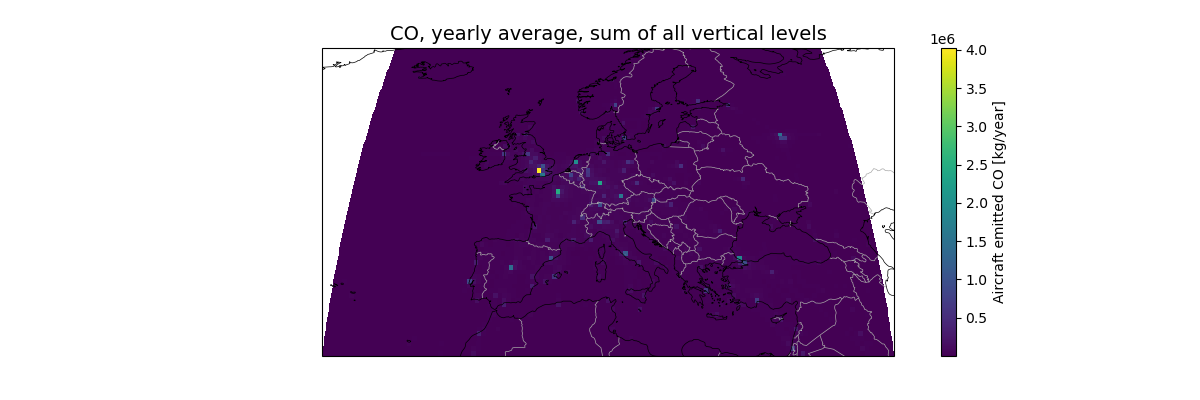
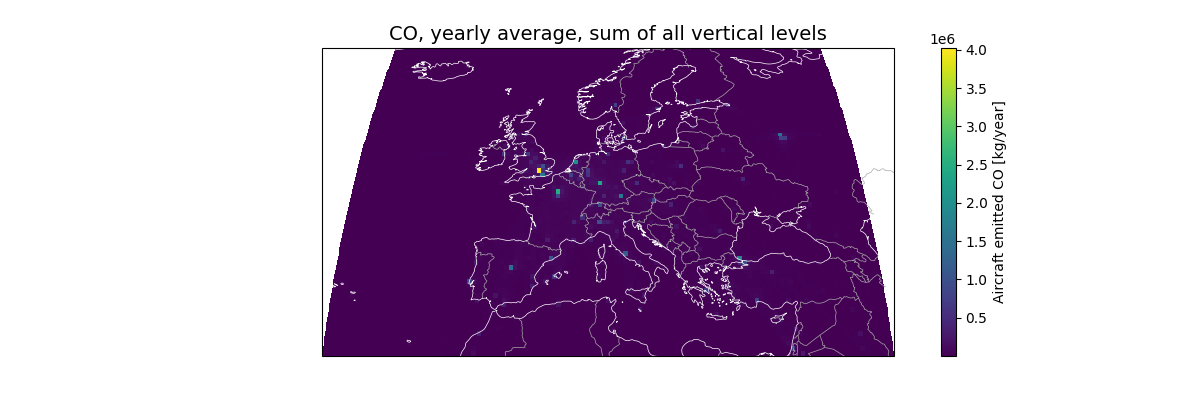
fixed file path for emission plotting

diff --git a/monthly_average/yearaveraged_emissions.py b/monthly_average/yearaveraged_emissions.py
@@ -8,7 +8,7 @@ import numpy as np
 
 
 # Open DataSet and print an overview of it
-ds_emission = xr.open_dataset(os.path.join(os.path.dirname(__file__), "..", "..", 'raw_data', 'emissions', 'AvEmMasses.nc4'))
+ds_emission = xr.open_dataset(os.path.join(os.path.dirname(__file__), "..", 'raw_data', 'emissions', 'AvEmMasses.nc4'))
 
 # Select a DataArray
 vars = ["FUELBURN", "NO2", "HC", "CO", 'nvPM']
@@ -22,12 +22,12 @@ for var in vars:
     
     ax = plt.axes(projection=ccrs.EqualEarth(central_longitude=10))
     ax.add_feature(cfeature.BORDERS.with_scale('50m'), linewidth=0.5, edgecolor='darkgrey')
-    ax.coastlines(resolution='50m', linewidth=0.5, color='black')
+    ax.coastlines(resolution='50m', linewidth=0.5, color='white')
     da_emission.plot(ax=ax, transform=ccrs.PlateCarree())
     
     ax.set_title(f"{var}, yearly average, sum of all vertical levels", fontsize=14)
 
-    plt.savefig(os.path.join(os.path.dirname(__file__), '..', '..', 'monthly_average', 'emissions_figures',f'{var}_timeaveraged.png'))
+    plt.savefig(os.path.join(os.path.dirname(__file__), '..', 'monthly_average', 'emissions_figures',f'{var}_timeaveraged.png'))
     
     
 plt.show()

diff --git a/monthly_average/procData.py b/monthly_average/procData.py
@@ -28,7 +28,7 @@ types = {
 }
 
 # emittants:
-# NO2, HC, CO, NVPM
+# NO2, HC, CO, nvPM
 
     # Iterate through each pollutant
 for type, vars in types.items():
